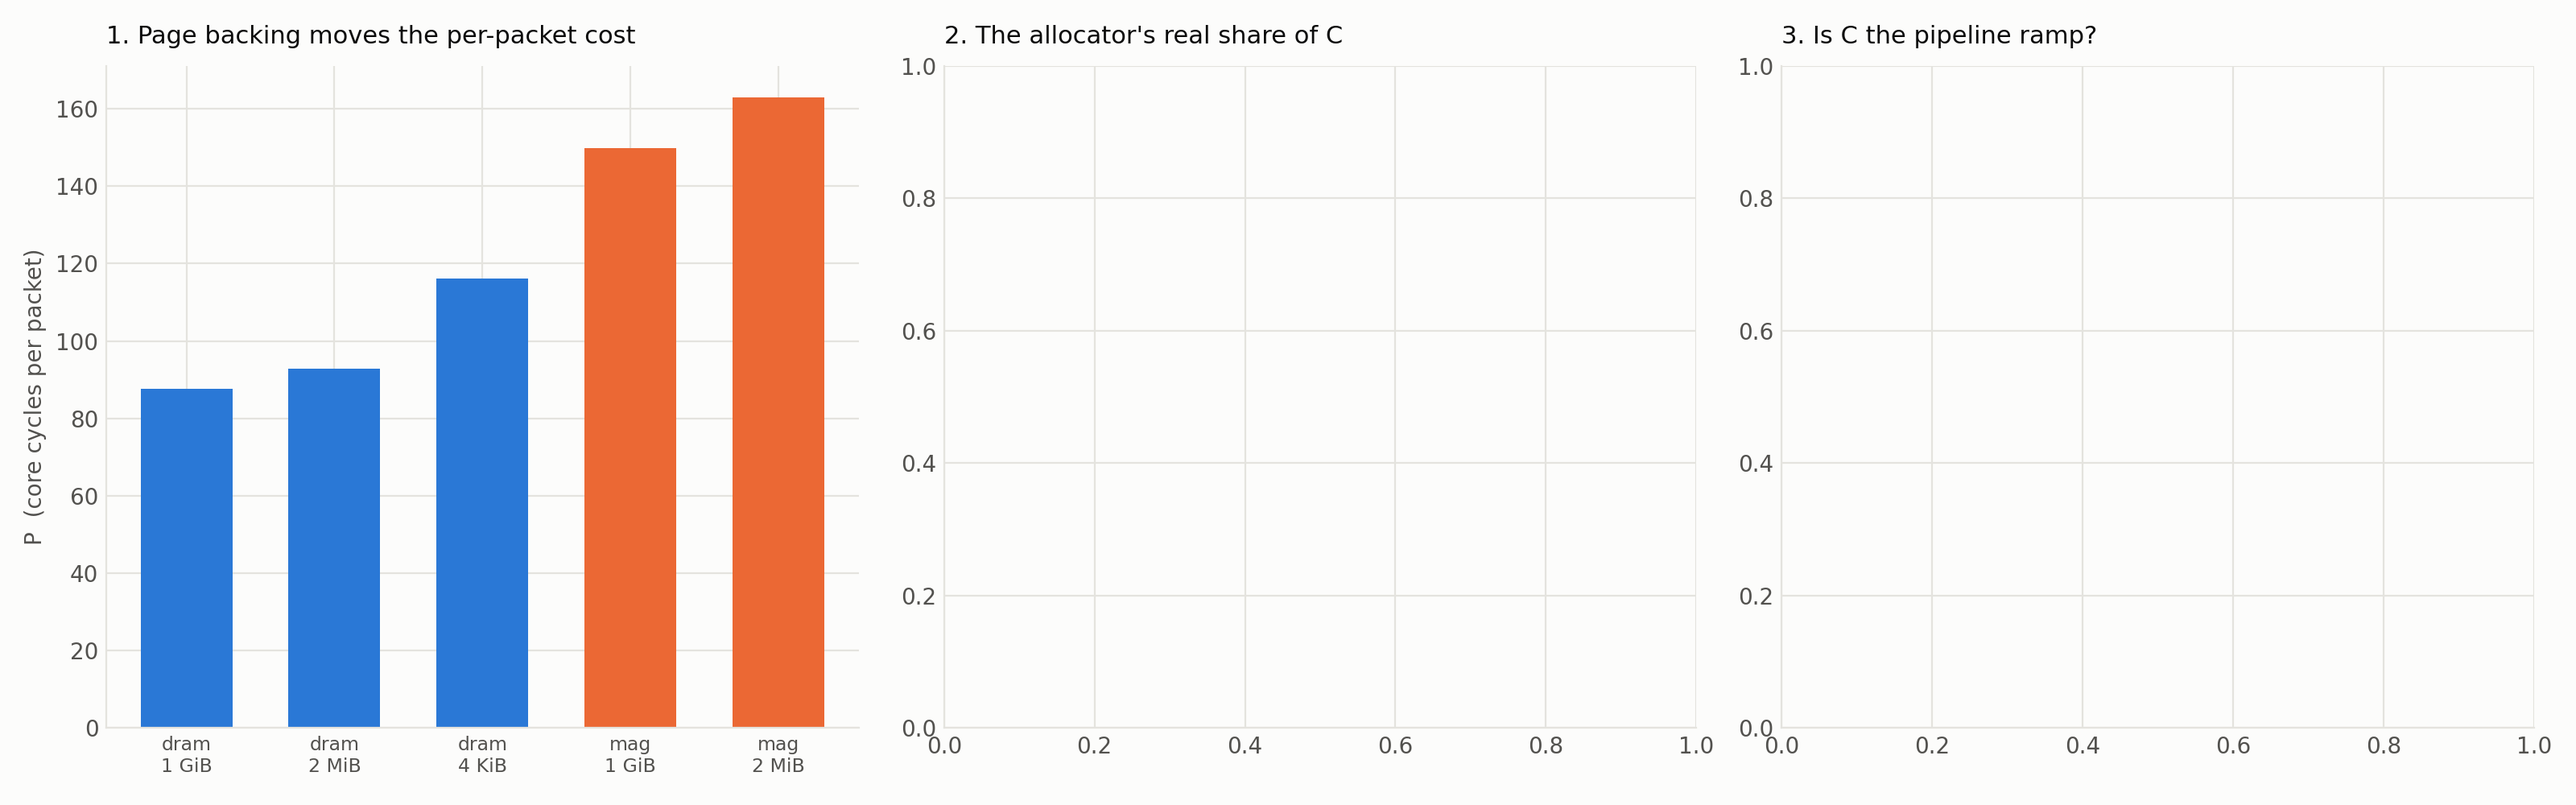
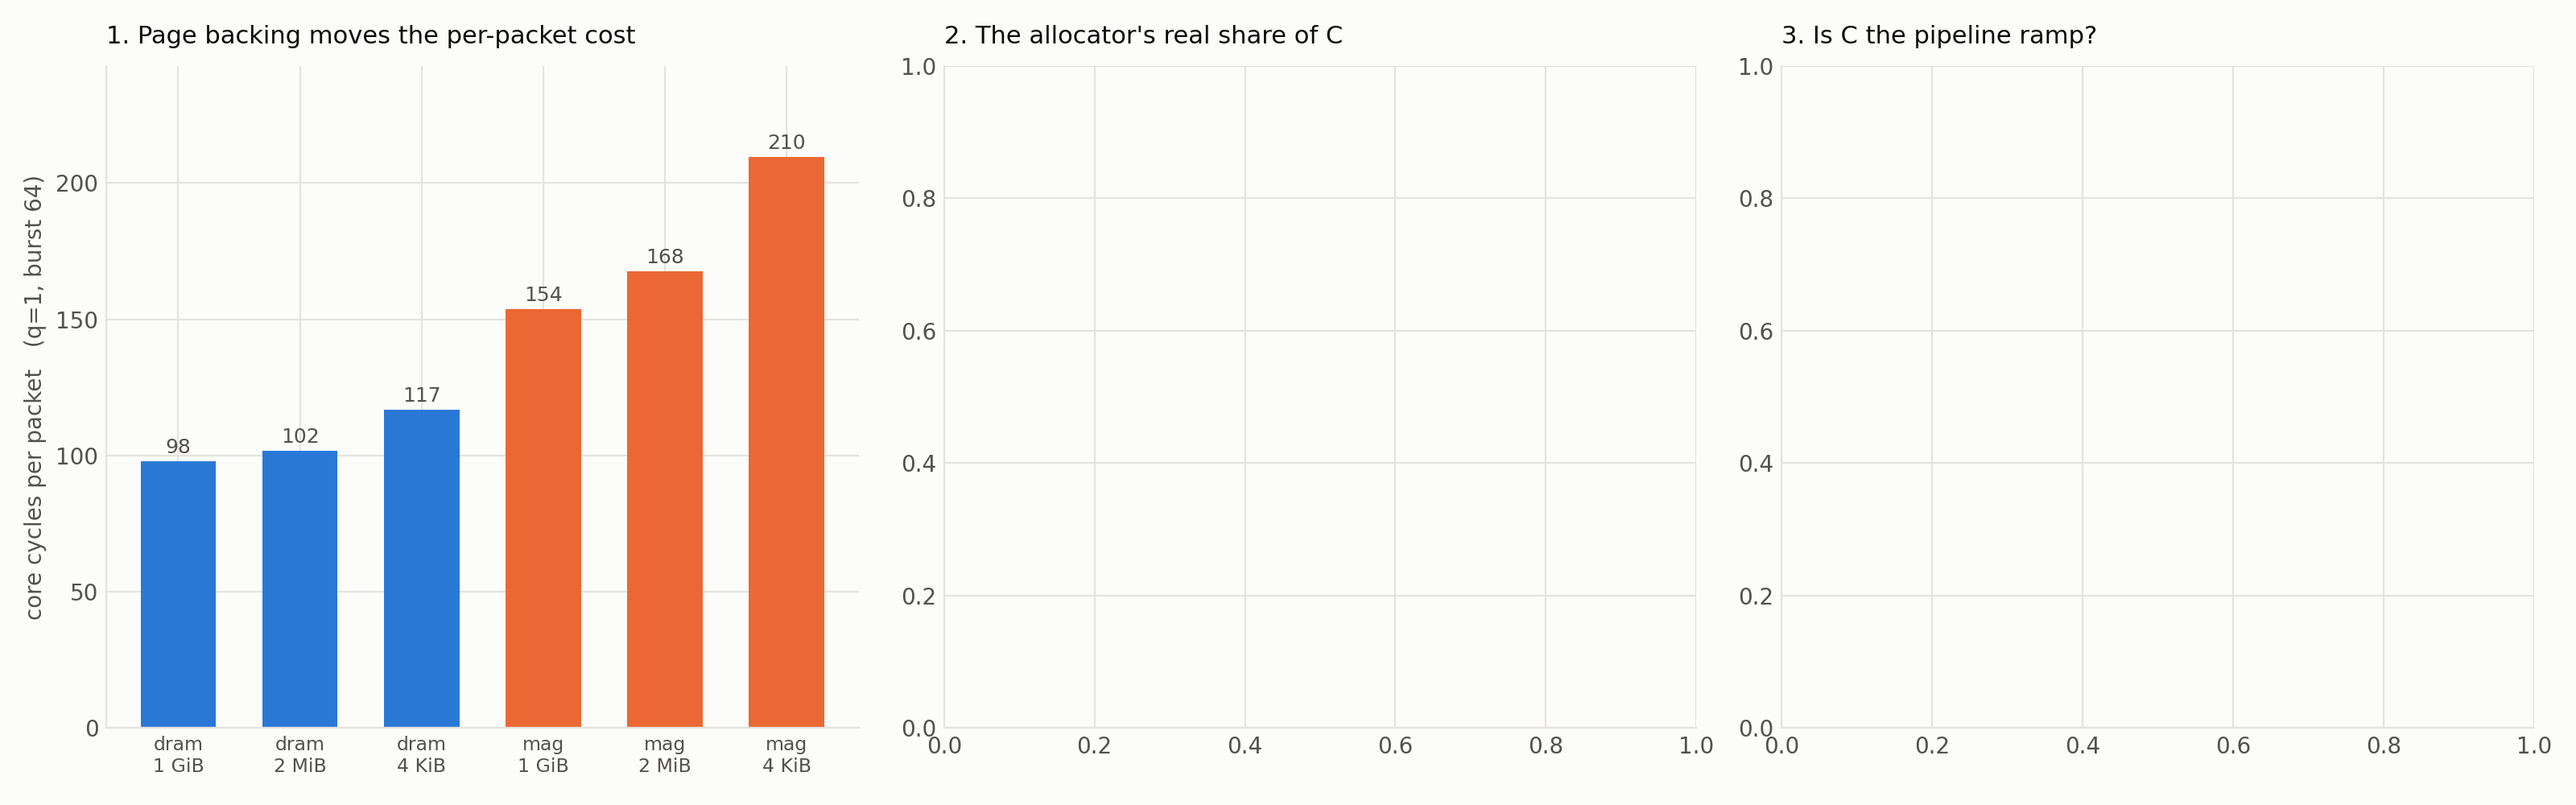
docs: the page-size asymmetry, and a repeatability block
Going from 1 GiB pages to 4 KiB costs dramblast 19 cycles per packet and maglev
56 -- close to three times as much. The prefetch pipeline is not only hiding the
data access, it is hiding the page walk the prefetch itself triggers, which then
completes underneath later work. The gap between the engines therefore widens as
pages shrink, 55.9 cycles at 1 GiB to 92.8 at 4 KiB: a configuration change that
hurts both engines hurts the unprefetched one three times harder.

The matrix figure now reads q=1 rather than the fitted intercept, so maglev on
4 KiB appears at all -- that arm never saturates the link, so its burst never
leaves 64 and no slope exists to fit.

run_matrix.sh gains a `repeat` block that re-takes the as-shipped condition
hours after the control. Every uncertainty quoted so far is the scatter of one
fit about one dataset; nothing yet says how much a coefficient moves when the
identical condition is simply run again. Without that, a 5% difference between
two arms has nothing to be compared against.

diff --git a/docs/report.html b/docs/report.html
@@ -282,8 +282,23 @@ with.</p>
 <section class="wrap">
 <p>Giving maglev dramblast's 1 GiB pages moves its per-packet cost by
 14 cycles — 20% of the 70-cycle gap between the two
-engines. Address translation is a real cost and it is not the explanation. The
-prefetch pipeline is.</p>
+engines. So the confound was real, and it was worth finding, and it is a fifth
+of the story. Address translation is not the explanation.</p>
+<p>The sharper result is in how differently the two engines react to the same
+change. Dropping from 1 GiB pages to 4 KiB costs dramblast 19 cycles
+and maglev 56 — close to three times as much. The prefetch pipeline is
+not only hiding the data access; it is hiding the <em>page walk</em>, which the
+prefetch itself triggers, early, so it completes underneath later work. That is
+why the gap between the engines widens as pages shrink, from 56 cycles
+at 1 GiB to 93 at 4 KiB. A configuration change that hurts both engines
+hurts the unprefetched one three times harder.</p>
+<p>And the counters make a trap visible. maglev on 2 MiB pages spends 25.6
+cycles per packet with a page walk in flight, but removing the walks entirely
+saves only 14 — so even the engine with no prefetching at all overlaps
+about 45% of its walking under other work. dramblast on 2 MiB pages spends 27%
+of every core cycle with a walk outstanding and pays 4 cycles for it.
+Walk occupancy is not walk cost, and reading it as cost would have overstated
+this whole section sixfold.</p>
 </section>
 
 <section class="wrap">

diff --git a/l2fwd/make_report.py b/l2fwd/make_report.py
@@ -439,12 +439,14 @@ regimes apart.</p>
 
     xrows = crossover_rows(allc)
     crossover_html = ""
-    if len(xrows) >= 4:
+    if len(xrows) >= 6:
         by = {(m, l): (P, t) for m, l, P, t in xrows}
         d1 = by.get(("dramblast", "1 GiB pages"), (None,))[0]
         d4 = by.get(("dramblast", "4 KiB pages"), (None,))[0]
         m2 = by.get(("maglev", "2 MiB THP"), (None,))[0]
         m1 = by.get(("maglev", "1 GiB pages"), (None,))[0]
+        d2 = by.get(("dramblast", "2 MiB THP"), (None,))[0]
+        m4 = by.get(("maglev", "4 KiB pages"), (None,))[0]
         gap = m2 - d1 if (m2 and d1) else None
         moved = (m2 - m1) if (m2 and m1) else None
         share = f"{moved/gap*100:.0f}%" if (moved and gap) else "?"
@@ -482,8 +484,23 @@ with.</p>
 <section class="wrap">
 <p>Giving maglev dramblast's 1 GiB pages moves its per-packet cost by
 {abs(moved):.0f} cycles — {share} of the {abs(gap):.0f}-cycle gap between the two
-engines. Address translation is a real cost and it is not the explanation. The
-prefetch pipeline is.</p>
+engines. So the confound was real, and it was worth finding, and it is a fifth
+of the story. Address translation is not the explanation.</p>
+<p>The sharper result is in how differently the two engines react to the same
+change. Dropping from 1 GiB pages to 4 KiB costs dramblast {d4-d1:.0f} cycles
+and maglev {m4-m1:.0f} — close to three times as much. The prefetch pipeline is
+not only hiding the data access; it is hiding the <em>page walk</em>, which the
+prefetch itself triggers, early, so it completes underneath later work. That is
+why the gap between the engines widens as pages shrink, from {m1-d1:.0f} cycles
+at 1 GiB to {m4-d4:.0f} at 4 KiB. A configuration change that hurts both engines
+hurts the unprefetched one three times harder.</p>
+<p>And the counters make a trap visible. maglev on 2 MiB pages spends 25.6
+cycles per packet with a page walk in flight, but removing the walks entirely
+saves only {m2-m1:.0f} — so even the engine with no prefetching at all overlaps
+about 45% of its walking under other work. dramblast on 2 MiB pages spends 27%
+of every core cycle with a walk outstanding and pays {d2-d1:.0f} cycles for it.
+Walk occupancy is not walk cost, and reading it as cost would have overstated
+this whole section sixfold.</p>
 </section>
 """
 

diff --git a/l2fwd/analyse_matrix.py b/l2fwd/analyse_matrix.py
@@ -237,18 +237,28 @@ def main():
     fig, axes = plt.subplots(1, 3, figsize=(16, 5))
 
     ax = axes[0]
-    labels, Ps, Cs, cols = [], [], [], []
-    for lab, f, col in (("dram\n1 GiB", base_d, BLUE),
-                        ("dram\n2 MiB", g("xover_dram_thp2m", "dramblast"), BLUE),
-                        ("dram\n4 KiB", g("xover_dram_4k", "dramblast"), BLUE),
-                        ("mag\n1 GiB", g("xover_mag_1g", "maglev"), ORANGE),
-                        ("mag\n2 MiB", base_m, ORANGE),
-                        ("mag\n4 KiB", g("xover_mag_4k", "maglev"), ORANGE)):
-        if f:
-            labels.append(lab); Ps.append(f["P"]); Cs.append(f["C"]); cols.append(col)
-    ax.bar(range(len(Ps)), Ps, color=cols, width=0.62)
+    # q=1 rather than the fitted intercept: on 4 KiB pages the fit absorbs a
+    # core-count term it cannot represent, and for maglev on 4 KiB there is no
+    # fit at all because that arm never saturates the link and so never leaves a
+    # 64-packet burst. q=1 is defined for every arm and means the same thing in
+    # each of them.
+    labels, vals, cols = [], [], []
+    for lab, mode, cond, col in (("dram\n1 GiB", "dramblast", base_cond, BLUE),
+                                 ("dram\n2 MiB", "dramblast", "xover_dram_thp2m", BLUE),
+                                 ("dram\n4 KiB", "dramblast", "xover_dram_4k", BLUE),
+                                 ("mag\n1 GiB", "maglev", "xover_mag_1g", ORANGE),
+                                 ("mag\n2 MiB", "maglev", base_cond, ORANGE),
+                                 ("mag\n4 KiB", "maglev", "xover_mag_4k", ORANGE)):
+        v = at_q1(allc, cond, mode)
+        if v:
+            labels.append(lab); vals.append(v); cols.append(col)
+    bars = ax.bar(range(len(vals)), vals, color=cols, width=0.62)
+    for b, v in zip(bars, vals):
+        ax.text(b.get_x() + b.get_width() / 2, v + 3, f"{v:.0f}",
+                ha="center", fontsize=9, color=INK_2)
     ax.set_xticks(range(len(labels))); ax.set_xticklabels(labels, fontsize=8.5)
-    ax.set_ylabel("P  (core cycles per packet)")
+    ax.set_ylabel("core cycles per packet   (q=1, burst 64)")
+    ax.set_ylim(0, max(vals) * 1.16 if vals else 1)
     ax.set_title("1. Page backing moves the per-packet cost", fontsize=11,
                  loc="left", pad=10)
 

diff --git a/l2fwd/extract_results.py b/l2fwd/extract_results.py
@@ -66,6 +66,8 @@ CONDS = {
     # is its control: same flags-free invocation as `pinned_2100mhz`, so any
     # difference between the two is the refactor and not the experiment.
     "pinned2_asshipped": "pinned2",
+    # the same condition re-run hours later: the only run-to-run error bar
+    "pinned3_repeat": "pinned3",
     # crossover: each mode on the other's page backing (and on 4 KiB, which
     # neither ships with, to turn a two-point swap into a three-point trend)
     "xover_dram_thp2m": "xdram2m", "xover_dram_4k": "xdram4k",
